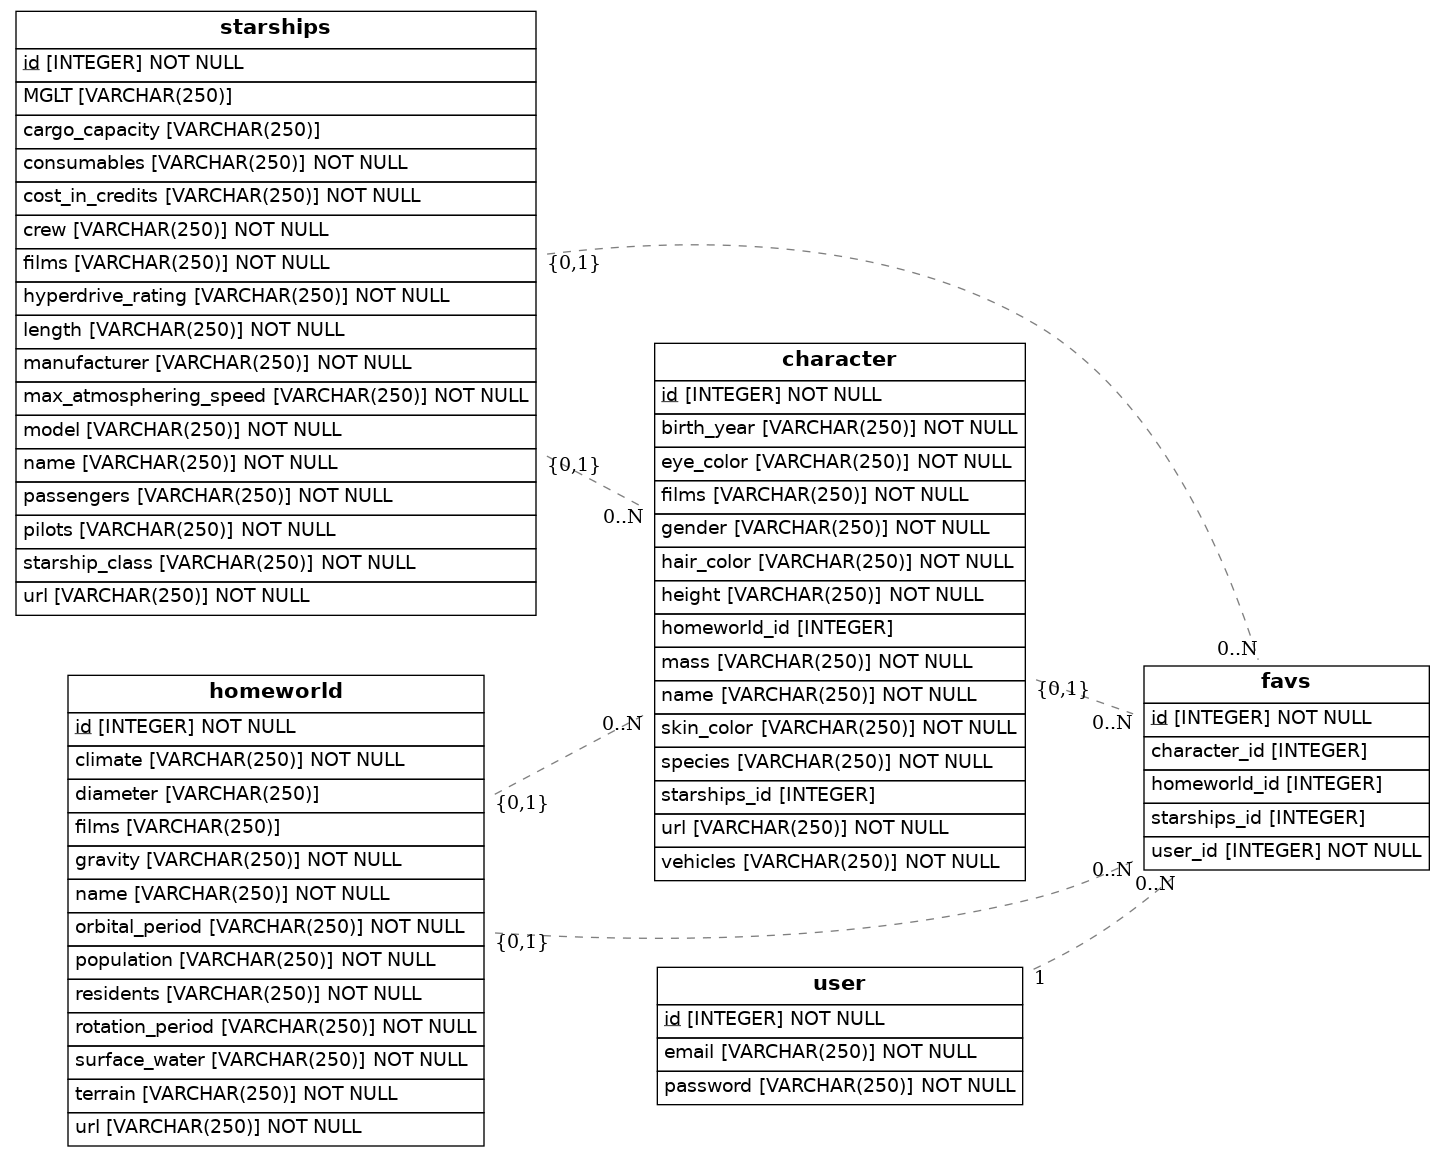
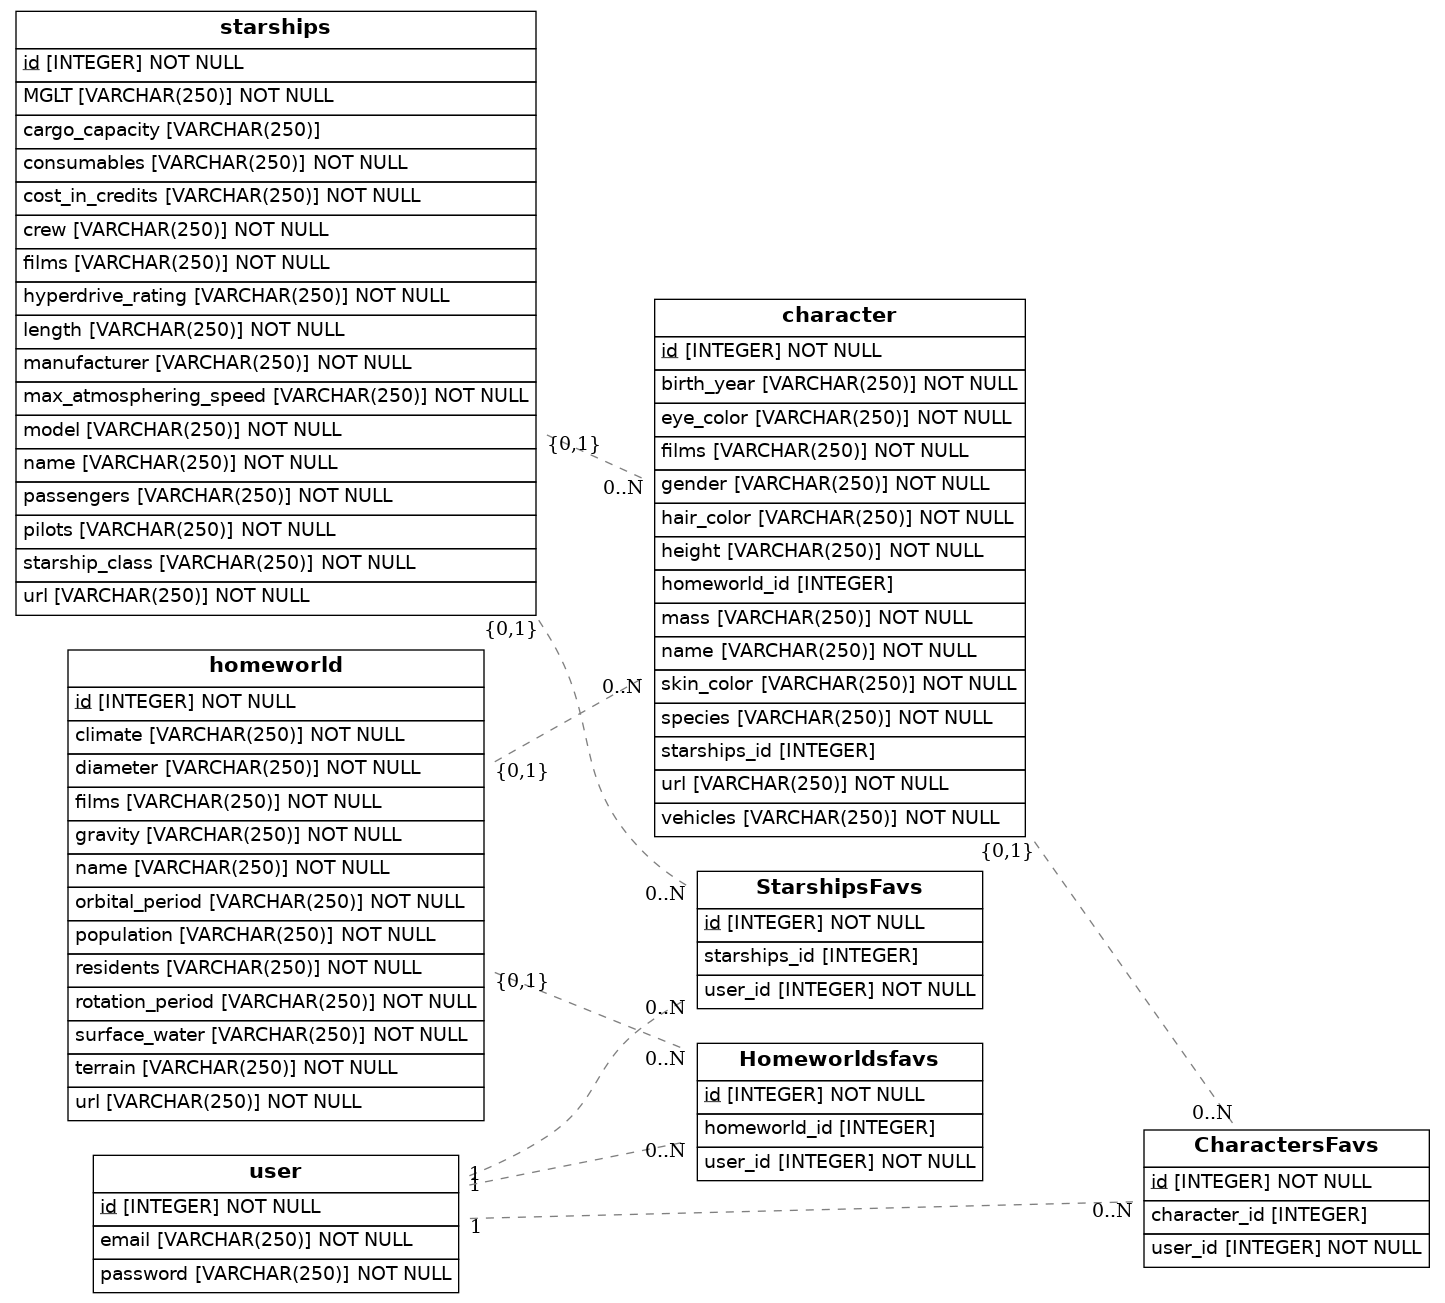
correccion

diff --git a/src/models.py b/src/models.py
@@ -35,7 +35,7 @@ class Starships(Base):
     id = Column(Integer, primary_key=True)
     name = Column(String(250), nullable=False)
     model = Column(String(250), nullable=False)
-    MGLT = Column(String(250))
+    MGLT = Column(String(250), nullable=False)
     cargo_capacity = Column(String(250))
     consumables = Column(String(250), nullable=False)
     cost_in_credits = Column(String(250), nullable=False)
@@ -57,8 +57,8 @@ class Homeworld(Base):
     id = Column(Integer, primary_key=True)
     name = Column(String(250), nullable=False)
     climate = Column(String(250), nullable=False)
-    diameter = Column(String(250))
-    films = Column(String(250))
+    diameter = Column(String(250), nullable=False)
+    films = Column(String(250), nullable=False)
     gravity = Column(String(250), nullable=False)
     orbital_period = Column(String(250), nullable=False)
     population = Column(String(250), nullable=False)
@@ -68,20 +68,26 @@ class Homeworld(Base):
     terrain = Column(String(250), nullable=False)
     url = Column(String(250), nullable=False)
     
-class Favs(Base):
-    __tablename__ = 'favs'
-    # Here we define columns for the table address.
-    # Notice that each column is also a normal Python instance attribute.
+class FavsCharacter(Base):
+    __tablename__ = 'CharactersFavs'
     id = Column(Integer, primary_key=True)
     user_id = Column(Integer, ForeignKey('user.id'), nullable=False)
     character_id = Column(Integer, ForeignKey('character.id'))
+
+class FavsStarships(Base):
+    __tablename__ = 'StarshipsFavs'
+    id = Column(Integer, primary_key=True)
+    user_id = Column(Integer, ForeignKey('user.id'), nullable=False)
     starships_id = Column(Integer, ForeignKey('starships.id'))
+
+class FavsHomeworld(Base):
+    __tablename__ = 'Homeworldsfavs'
+    id = Column(Integer, primary_key=True)
+    user_id = Column(Integer, ForeignKey('user.id'), nullable=False)
     homeworld_id = Column(Integer, ForeignKey('homeworld.id'))
 
 class User(Base):
     __tablename__ = 'user'
-    # Here we define columns for the table address.
-    # Notice that each column is also a normal Python instance attribute.
     id = Column(Integer, primary_key=True)
     email = Column(String(250), nullable=False)
     password = Column(String(250), nullable=False)
